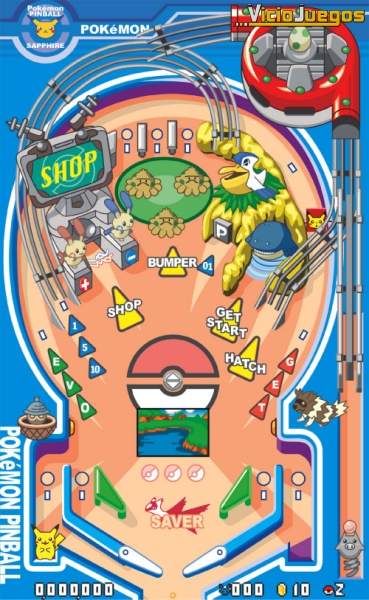
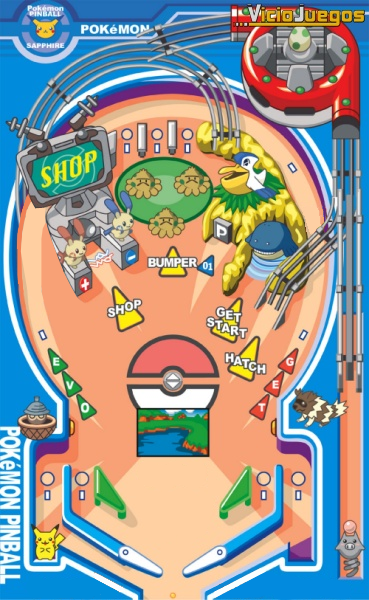
updated map

diff --git a/Physics2_class3 - handout/ModuleSceneIntro.cpp b/Physics2_class3 - handout/ModuleSceneIntro.cpp
@@ -30,6 +30,7 @@ bool ModuleSceneIntro::Start()
 	box = App->textures->Load("pinball/crate.png");
 	rick = App->textures->Load("pinball/rick_head.png");
 	backgroundmap = App->textures->Load("pinball/pinball.png");
+	frontground = App->textures->Load("pinball/fronground.png");
 	bonus_fx = App->audio->LoadFx("pinball/bonus.wav");
 
 	// TODO: Homework - create a sensor
@@ -433,7 +434,7 @@ update_status ModuleSceneIntro::Update()
 
 	if(App->input->GetKey(SDL_SCANCODE_1) == KEY_DOWN)
 	{
-		circles.add(App->physics->CreateCircle(App->input->GetMouseX(), App->input->GetMouseY(), 8));
+		circles.add(App->physics->CreateCircle(App->input->GetMouseX(), App->input->GetMouseY(), 6));
 		circles.getLast()->data->listener = this;
 		// TODO 8: Make sure to add yourself as collision callback to the circle you creates
 	}
@@ -499,6 +500,7 @@ update_status ModuleSceneIntro::Update()
 		
 	while (c != NULL){
 		App->renderer->Blit(backgroundmap, PIXEL_TO_METERS(0), PIXEL_TO_METERS(0), NULL, 0.1f, NULL);
+		App->renderer->Blit(frontground, PIXEL_TO_METERS(0), PIXEL_TO_METERS(0), NULL, 0.1f, NULL);
 		c = c->next;
 	}
 

diff --git a/Physics2_class3 - handout/ModuleSceneIntro.h b/Physics2_class3 - handout/ModuleSceneIntro.h
@@ -30,6 +30,7 @@ public:
 	SDL_Texture* box;
 	SDL_Texture* rick;
 	SDL_Texture* backgroundmap;
+	SDL_Texture* frontground;
 	uint bonus_fx;
 	p2Point<int> ray;
 	bool ray_on;
